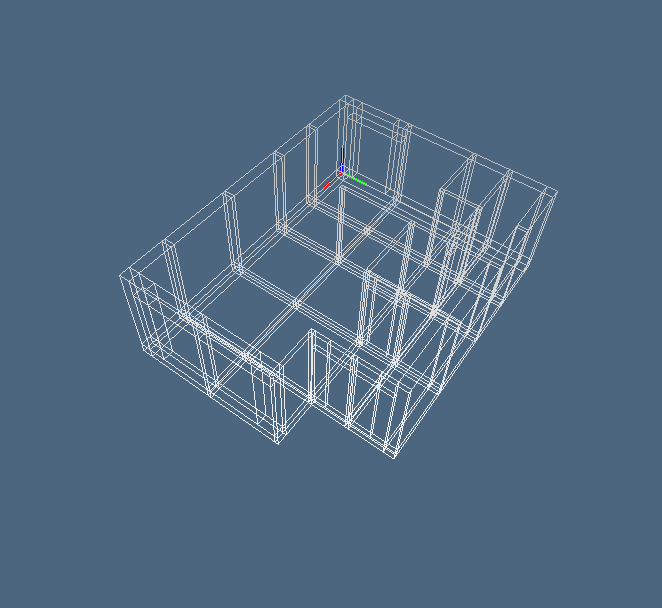
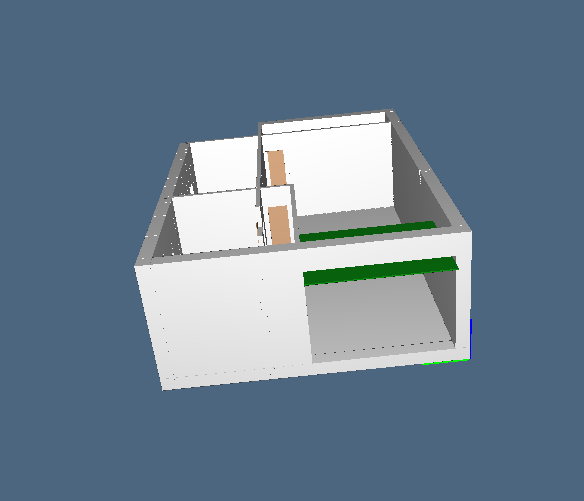
hw3 update

Changed region(s): [[0.1849, 0.1497, 0.863, 0.7784]]

diff --git a/2014-05-17/index.html b/2014-05-17/index.html
@@ -43,13 +43,21 @@
         <img src="images/8.jpg"/>
         <img src="images/9.jpg"/>
         <img src="images/10.jpg"/>
+        <img src="images/11.jpg"/>
+        <img src="images/12.jpg"/>
+        <img src="images/13.jpg"/>
+        <img src="images/14.jpg"/>
   		</p>
   	</div>
   	<div class="exlinks">
   		<h3>Collegamenti agli esercizi :</h3>
   		<p style="position:relative;left:40px">
-  			<a href="python/exercise1.py">Esercizio 1</a><br>
-  			<a href="python/exercise2.py">Esercizio 2</a><br>
+  		<a href="python/exercise1.py">Esercizio 1</a><br>
+  		<a href="python/exercise2.py">Esercizio 2</a><br>
+      <a href="python/scala.py">scala.py</a><br>
+      <a href="python/pianoTerra.py">pianoTerra.py</a><br>
+      <a href="python/primoPiano.py">primoPiano.py</a><br>
+      <a href="python/secondoPiano.py">secondoPiano.py</a><br>
   		</p>
   	</div>
   </body>

diff --git a/2014-05-17/python/exercise2.py b/2014-05-17/python/exercise2.py
@@ -13,6 +13,7 @@ from myfont import *
 from architectural import *
 from splines import *
 from exercise1 import casa
+from scala import *
 
 DRAW = COMP([VIEW,STRUCT,MKPOLS])
 DRAW1 = COMP([STRUCT,MKPOLS])
@@ -34,7 +35,7 @@ base3 = T(3)(-3.1)(base3)
 giardino1 = CUBOID([1,1,1])
 giardino1 = S([1,2,3])([13,6.3,.1])(giardino1)
 giardino1 = T([1,2,3])([15,-8.2,3])(giardino1)
-giardino1 = COLOR(GREEN)(giardino1)
+giardino1 = COLOR([0,0.6,0.1])(giardino1)
 
 
 giardino2 = S(2)(.3)(giardino1)
@@ -52,7 +53,7 @@ giardinoUP = assemblyDiagramInit([3,5,4])([[.5,10,.5],[.5,3,.5,3,.5],[.5,2,1,.5]
 V,CV = giardinoUP
 hpc = SKEL_1(STRUCT(MKPOLS(giardinoUP)))
 hpc = cellNumbering (giardinoUP,hpc)(range(len(CV)),CYAN,2)
-VIEW(hpc)
+#VIEW(hpc)
 
 emptyChain1 = [27,26,23,22,7,6,3,2,47,46,43,42,35,25]
 
@@ -64,13 +65,14 @@ exteriorCV1 += exteriorCells(giardinoUP)
 gia1 = MKPOL([giardinoUP[0],[[v+1 for v in  giardinoUP[1][35]]],None])
 gia2 = MKPOL([giardinoUP[0],[[v+1 for v in  giardinoUP[1][25]]],None])
 
-gia1 = COLOR(GREEN)(gia1)
-gia2 = COLOR(GREEN)(gia2)
+gia1 = COLOR([0,0.6,0.1])(gia1)
+gia2 = COLOR([0,0.6,0.1])(gia2)
 
 giardinoUP = DRAW1((giardinoUP[0],solidCV1))
 giardinoUP = STRUCT([gia1,gia2,giardinoUP])
 
 giardinoDOWN = giardinoUP
+giardinoRight = giardinoUP
 
 #VIEW(giardinoUP)
 
@@ -83,6 +85,9 @@ giardinoDOWN = R([1,2])(PI)(giardinoDOWN)
 giardinoDOWN = S(1)(1.4)(giardinoDOWN)
 giardinoDOWN = T([1,2,3])([15,15,-4])(giardinoDOWN)
 
+giardinoRight =  R([1,2])(PI)(giardinoRight)
+giardinoRight = S([1,2,3])([.6,.9,.8])(giardinoRight)
+giardinoRight = T([1,2])([-2.5,1])(giardinoRight)
 #### piscina
 piscina = assemblyDiagramInit([3,3,3])([[.5,10,.5],[.5,6,.5],[.5,3,.5]])
 V,CV = piscina
@@ -103,8 +108,44 @@ piscina  = S(3)(.8)(piscina)
 
 #####  albero
 cilindro = COLOR([0.5,0.30,0.1])(CYLINDER([1,5.50])(240))
-chioma = COLOR([0,0.6,0.1])(SPHERE(5)([9,10]))
+chioma = COLOR(GREEN)(SPHERE(5)([9,10]))
 albero = STRUCT([T(3)(10)(chioma),cilindro])
+albero = S([1,2,3])([.2,.2,.2])(albero)
 #VIEW(albero)
 
-VIEW(STRUCT([muro, giardinoDOWN,giardinoUP,base2,base3, giardino3, giardino2, giardino1,base, casa, T([1,2])([15,-2])(piscina)]))
+alberi = STRUCT([T([1,2,3])([11,10,0])(albero), 
+	T([1,2,3])([5,13,-1.5])(albero), 
+	T([1,2,3])([25,-3,3])(albero), 
+	T([1,2,3])([20,-6,3])(albero),
+	T([1,2,3])([8,-9,5.5])(albero)])
+
+scala = R([1,2])(-PI/2)(scala)
+
+###  utilizzo spline per tagliare piano
+controlpoints = [[-0,0],[1,0],[1,1],[2,1],[3,1]]
+dom = larDomain([32],'simplex')
+obj = larMap(larBezier(S1)(controlpoints))(dom)
+
+curva  = STRUCT(MKPOLS(obj))
+#curva = R([1,2])(PI)(curva)
+#VIEW(curva)
+
+pts = [[0,0],[3,0]]
+baseC = JOIN([curva,POLYLINE(pts)])
+baseC = OFFSET([0.01,0.01,0.01])(baseC)
+baseC = S([1,2,3])([3,3,2.5])(baseC)
+baseC = T([1,2,3])([-4.2,0,1])(baseC)
+baseC = R([1,2])(PI)(baseC)
+
+
+pareteC = PROD([curva,Q(3)])
+pareteC = OFFSET([0.01,0.01,0.01])(pareteC)
+pareteC = S([1,2,3])([1.8,1.4,1])(pareteC)
+pareteC = T([1,2])([.3,3])(pareteC)
+
+
+giardinoUP = DIFF([giardinoUP,T([1,2,3])([2,-8,2])(baseC)])
+
+piantaCasa = STRUCT([T([1,2])([9,9])(scala), alberi , muro,giardinoRight, giardinoDOWN,giardinoUP,base2,base3, giardino3, giardino2, giardino1,base, casa, T([1,2])([15,-2])(piscina)])
+
+VIEW(piantaCasa)

diff --git a/2014-05-17/python/secondoPiano.py b/2014-05-17/python/secondoPiano.py
@@ -18,11 +18,7 @@ DRAW1 = COMP([STRUCT,MKPOLS])
 glass = [0.1,0.2,0.3,1,  0,0,0,0.5,  2,2,2,1, 0,0,0,1, 100]
 BROWN= Color4f([0.83, 0.65, 0.5, 1.0])
 
-
-
 ##################################################	secondo piano   ##############################################
-
-
 
 secondoPiano = assemblyDiagramInit([9,9,2])([[.3,2.5,.1,1.3,.1,3.1,.1,1,.3],[.3,2.5,.1,1.4,.1,1,.1,1,.3],[.3,2.7]])
 portaSga = assemblyDiagramInit([1,3,2])([[1],[.1,.3,.1],[2.2,.5]])
@@ -35,9 +31,6 @@ finestra4 = assemblyDiagramInit([1,2,3])([[1],[.1,.2],[1.5,2.2,.5]])
 finestra1 = assemblyDiagramInit([1,3,2])([[1],[.2,.3,.5],[2.2,.5]])
 finestra3 = assemblyDiagramInit([1,3,2])([[1],[.1,.3,.1],[2.2,.5]])
 pareteScale = assemblyDiagramInit([2,1,1])([[.7,.3],[1],[1]])
-
-
-
 
 '''V,CV = secondoPiano
 hpc = SKEL_1(STRUCT(MKPOLS(secondoPiano)))
@@ -73,7 +66,6 @@ exteriorCV += exteriorCells(secondoPiano)
 
 struttura2 = DRAW1((secondoPiano[0],solidCV))
 
-
 finestra1 = MKPOL([secondoPiano[0],[[v+1 for v in  secondoPiano[1][209]]],None])
 finestra2 = MKPOL([secondoPiano[0],[[v+1 for v in  secondoPiano[1][202]]],None])
 finestra3 = MKPOL([secondoPiano[0],[[v+1 for v in  secondoPiano[1][167]]],None])
@@ -86,7 +78,6 @@ porta2 = MKPOL([secondoPiano[0],[[v+1 for v in  secondoPiano[1][183]]],None])
 porta3 = MKPOL([secondoPiano[0],[[v+1 for v in  secondoPiano[1][195]]],None])
 porta4 = MKPOL([secondoPiano[0],[[v+1 for v in  secondoPiano[1][171]]],None])
 porta5 = MKPOL([secondoPiano[0],[[v+1 for v in  secondoPiano[1][177]]],None])
-
 
 finestra1 = S(1)(.1)(finestra1)
 finestra2 = S(1)(.1)(finestra2)
@@ -115,13 +106,10 @@ finestra5 =  MATERIAL(glass)(T(1)(7.8)(finestra5))
 #VIEW(STRUCT([hpc,finestra1,finestra2,finestra3,finestra4,finestra5,porta1,porta2,porta3,porta4,porta5]))
 
 ###  utilizzo spline per tagliare piano
-
-
 controlpoints = [[-0,0],[1,0],[1,1]]
 dom = larDomain([32],'simplex')
 obj = larMap(larBezier(S1)(controlpoints))(dom)
 #VIEW(STRUCT(MKPOLS(obj)))
-
 curva  = STRUCT(MKPOLS(obj))
 
 pts = [[0,0],[0,1],[1,1]]
@@ -131,7 +119,6 @@ pareteC = PROD([curva,Q(3)])
 pareteC = OFFSET([0.01,0.01,0.01])(pareteC)
 pareteC = S([1,2,3])([1.8,1.4,1])(pareteC)
 pareteC = T([1,2])([.3,3])(pareteC)
-
 
 baseC = OFFSET([0.01,0.01,0.01])(baseC)
 baseC = S([1,2,3])([1.8,1.4,.3])(baseC)

diff --git a/2014-05-17/python/pianoTerra.py b/2014-05-17/python/pianoTerra.py
@@ -112,8 +112,6 @@ porta4 =  COLOR(BROWN)(T(1)(5.9)(porta4))
 ##  finestre salette
 
 struttura = DRAW1((pianoTerra[0],solidCV))
-
-
 struttura = STRUCT([struttura,porta3,porta4,porta2,porta1,portaGar,finestra4,finestra2,finestra1,finestra3])
 
 #VIEW(struttura)

diff --git a/2014-05-17/python/exercise1.py b/2014-05-17/python/exercise1.py
@@ -20,7 +20,6 @@ DRAW = COMP([VIEW,STRUCT,MKPOLS])
 DRAW1 = COMP([STRUCT,MKPOLS])
 
 
-
 ########################## blocco unico ############################
 
 
